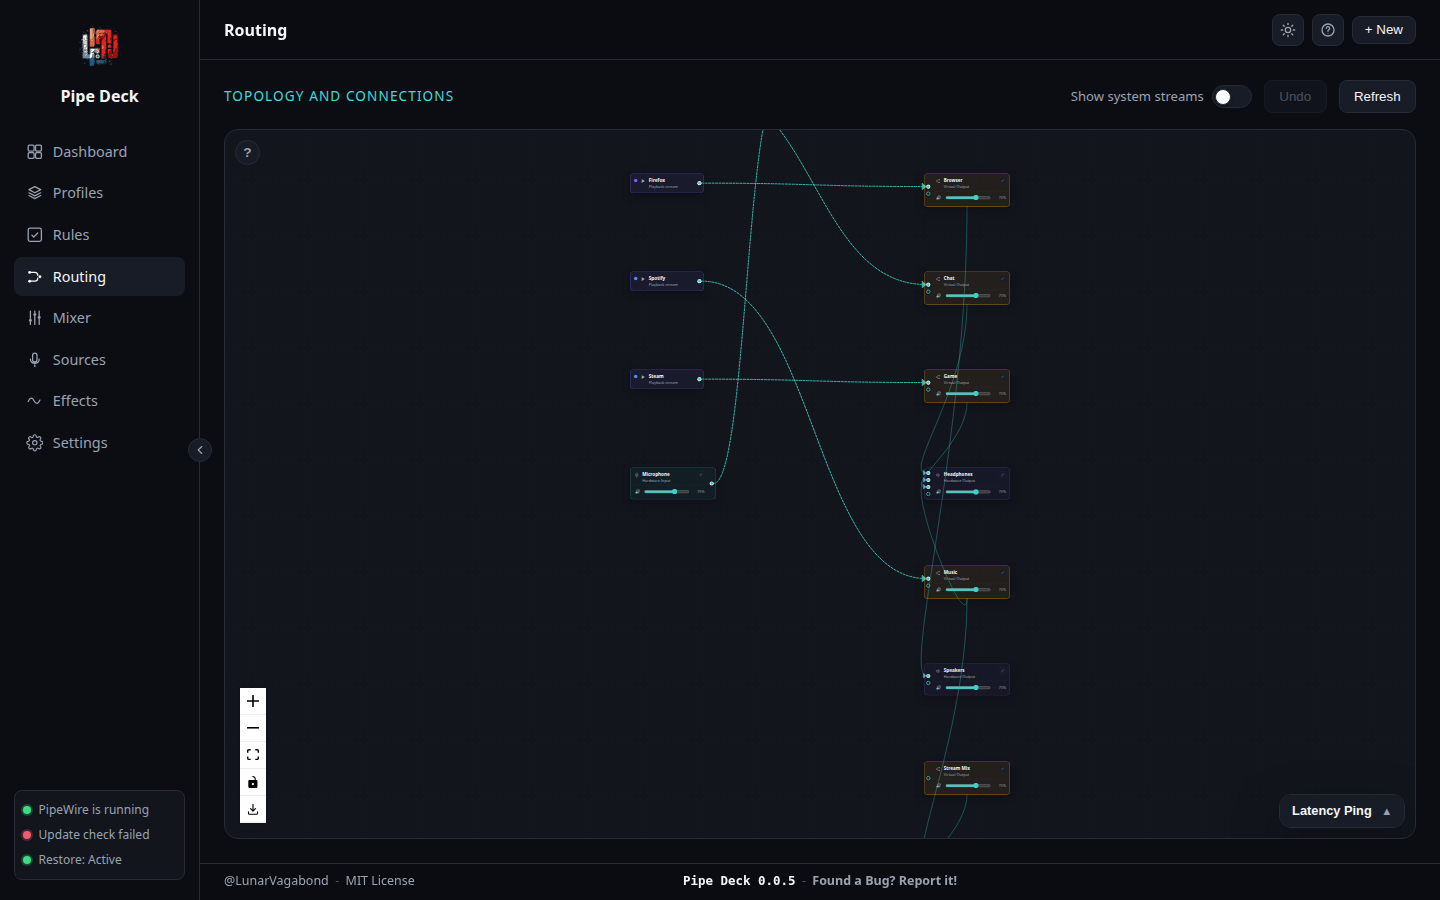
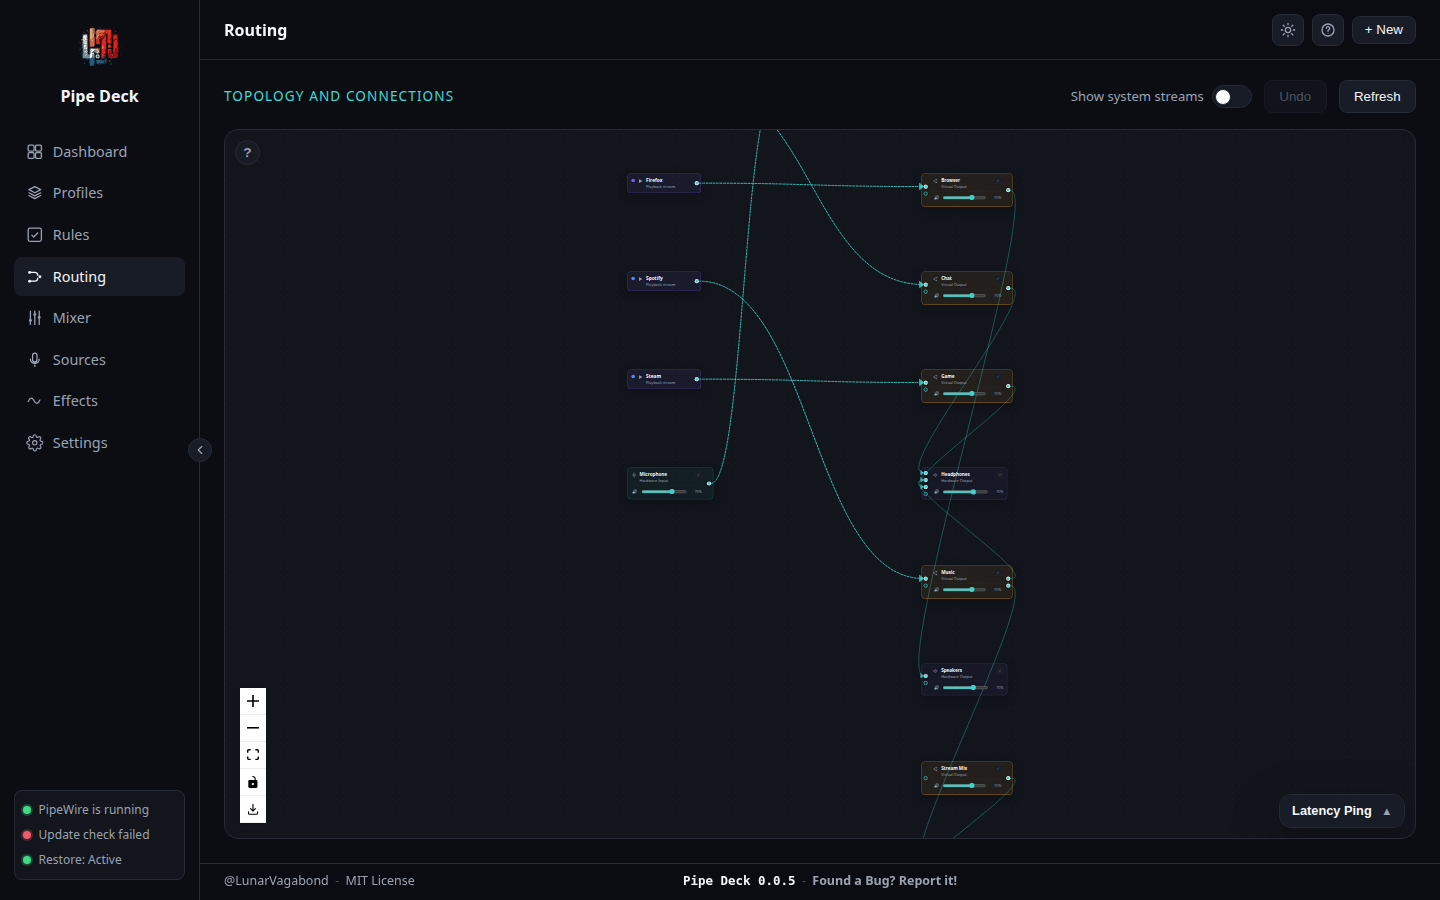
[#388] - Fix virtual output device's monitor edge anchoring to no real port
deviceHandleSides() denied every virtual output device an output handle
unconditionally (PD-033: no forward-routing from a plain device), which
conflated two different things: routing onward to a *new* arbitrary
destination (correctly retired — a Fan-Out node is required for that now)
and the device's own *existing* monitor fan-out to its current_target(s)
(an is_monitor link, still generated by the live backend for the ordinary
"virtual sink to physical output" case). Since handlesForDevice never built
a handle for the latter, its edge pointed at a handle id that didn't exist,
and Vue Flow fell back to anchoring at the node's default position instead
of a real pin.

handlesForDevice now also builds the audio-out handle block whenever the
device already has an existing out connection, not only when hasOut is
structurally true — buildSideHandles' existing non-multi-capable behavior
(no added empty slot once occupied) means this can't reopen a new
draggable forward-route slot. buildSideHandles itself no longer truncates
existing connections to one when non-multi-capable, since that silently
dropped a second real connection a backend can still report (e.g. multi-
target monitor fan-out via raw pw-link topology) rather than anchoring it
correctly — fixes the same bug for that case too.

Reproduces with the stock default mock sample graph, not just custom
scenario data (confirmed before making any change) — regenerated
docs/images/routing.png to reflect the fix.

diff --git a/src/components/routing-graph/nodePorts.spec.ts b/src/components/routing-graph/nodePorts.spec.ts
@@ -107,12 +107,33 @@ describe("handlesForDevice", () => {
     ]);
   });
 
-  it("gives a virtual output device zero output handles — #293, plain devices no longer route onward", () => {
+  it("gives an unconnected virtual output device zero output handles — #293, no fresh forward-route slot", () => {
     const device = makeDevice({ id: "term1", kind: "virtual", direction: "output" });
     const handles = handlesForDevice(device, { in: ["s1"], out: [] });
 
     expect(handles.some((h) => h.portType === "audio-out")).toBe(false);
     expect(handles.some((h) => h.portType === "audio-in")).toBe(true);
+  });
+
+  it("gives a virtual output device's existing monitor connection a real output handle, with no extra empty slot (#388)", () => {
+    const device = makeDevice({ id: "sink1", kind: "virtual", direction: "output" });
+    const handles = handlesForDevice(device, { in: [], out: ["headphones"] });
+    const outHandles = handles.filter((h) => h.portType === "audio-out");
+
+    // A real anchor for the existing monitor connection — the whole point of
+    // the fix — but never a fresh empty slot, since #293/PD-033 still means
+    // no *new* arbitrary forward-route from a plain virtual output device.
+    expect(outHandles).toEqual([
+      { id: "audio-out:headphones", type: "source", position: "right", portType: "audio-out", connectedId: "headphones" },
+    ]);
+  });
+
+  it("gives every one of a virtual output device's existing multi-target monitor connections a real handle, with no extra empty slot (#388)", () => {
+    const device = makeDevice({ id: "sink1", kind: "virtual", direction: "output" });
+    const handles = handlesForDevice(device, { in: [], out: ["headphones", "stream-output"] });
+    const outHandles = handles.filter((h) => h.portType === "audio-out");
+
+    expect(outHandles.map((h) => h.id)).toEqual(["audio-out:headphones", "audio-out:stream-output"]);
   });
 
   it("caps a non-multi-capable side at a single filled handle with no trailing empty slot", () => {
@@ -154,7 +175,7 @@ describe("handlesForProcessingNode", () => {
     expect(handles.some((h) => h.id === "audio-in:src1")).toBe(true);
   });
 
-  it("caps a fan-out node's input at one slot even if somehow multiply connected", () => {
+  it("shows a real handle per connection on a non-growable side even if somehow multiply connected, but never adds an empty slot", () => {
     const node = makeProcessingNode({
       inputs: [
         { index: 0, connected_id: "src1" },
@@ -162,10 +183,11 @@ describe("handlesForProcessingNode", () => {
       ],
     });
     const inHandles = handlesForProcessingNode(node).filter((h) => h.portType === "audio-in");
-    // Only ever one filled handle is shown for a non-growable side, and no
-    // trailing empty slot once it's occupied — matches buildSideHandles'
-    // existing non-multi-capable behavior.
-    expect(inHandles).toHaveLength(1);
+    // Every existing connection gets a real handle to anchor to — silently
+    // dropping the second one used to leave its edge anchored nowhere real
+    // (issue #388). The side still never grows a fresh *empty* slot beyond
+    // what's already connected, so this can't be used to add a third.
+    expect(inHandles.map((h) => h.id)).toEqual(["audio-in:src1", "audio-in:src2"]);
   });
 
   it("grows a mixer node's inputs but caps its output at one slot", () => {

diff --git a/src/components/routing-graph/nodePorts.ts b/src/components/routing-graph/nodePorts.ts
@@ -106,8 +106,16 @@ function buildSideHandles(
 ): RoutingGraphHandle[] {
   const type: "source" | "target" = portType === "audio-out" ? "source" : "target";
   const position: "left" | "right" = portType === "audio-in" ? "left" : "right";
+  // Every existing connection gets a real handle regardless of `multiCapable`
+  // — capping to the first one here used to silently drop a second live
+  // connection a backend can genuinely report on a non-multi-capable side
+  // (e.g. a virtual output device's monitor fan-out discovered via raw
+  // pw-link topology; see `handlesForDevice`), leaving its edge anchored
+  // nowhere real (issue #388). `multiCapable` still fully controls whether a
+  // fresh *empty* slot gets appended below — this only affects how many
+  // already-filled slots are shown, never whether new ones can be added.
   const unique = [...new Set(connectedIds)];
-  const bound = multiCapable ? unique : unique.slice(0, 1);
+  const bound = unique;
 
   const filled: RoutingGraphHandle[] = bound.map((id) => ({
     id: `${portType}:${id}`,
@@ -179,7 +187,17 @@ export function handlesForDevice(
   if (hasIn) {
     handles.push(...buildSideHandles("audio-in", connections.in, isMultiCapableSide(device, "in")));
   }
-  if (hasOut) {
+  // `hasOut` alone denies a "terminal" virtual output device (PD-033: no new
+  // forward-routing from a plain device) a *fresh, empty, draggable* output
+  // slot — but if it already has a real monitor connection (`connections.out`
+  // non-empty, e.g. an `is_monitor` link to its current_target(s)), that
+  // existing connection still needs a real handle to anchor to, or its edge
+  // falls back to Vue Flow's default node anchor instead of a port (#388).
+  // `buildSideHandles` with `multiCapable` from `isMultiCapableSide` (false
+  // for a plain virtual output) already renders exactly the existing
+  // connections with no added empty slot, so this can't reopen PD-033's
+  // "no new arbitrary forward-route" restriction.
+  if (hasOut || connections.out.length > 0) {
     handles.push(...buildSideHandles("audio-out", connections.out, isMultiCapableSide(device, "out")));
   }
   return handles;
